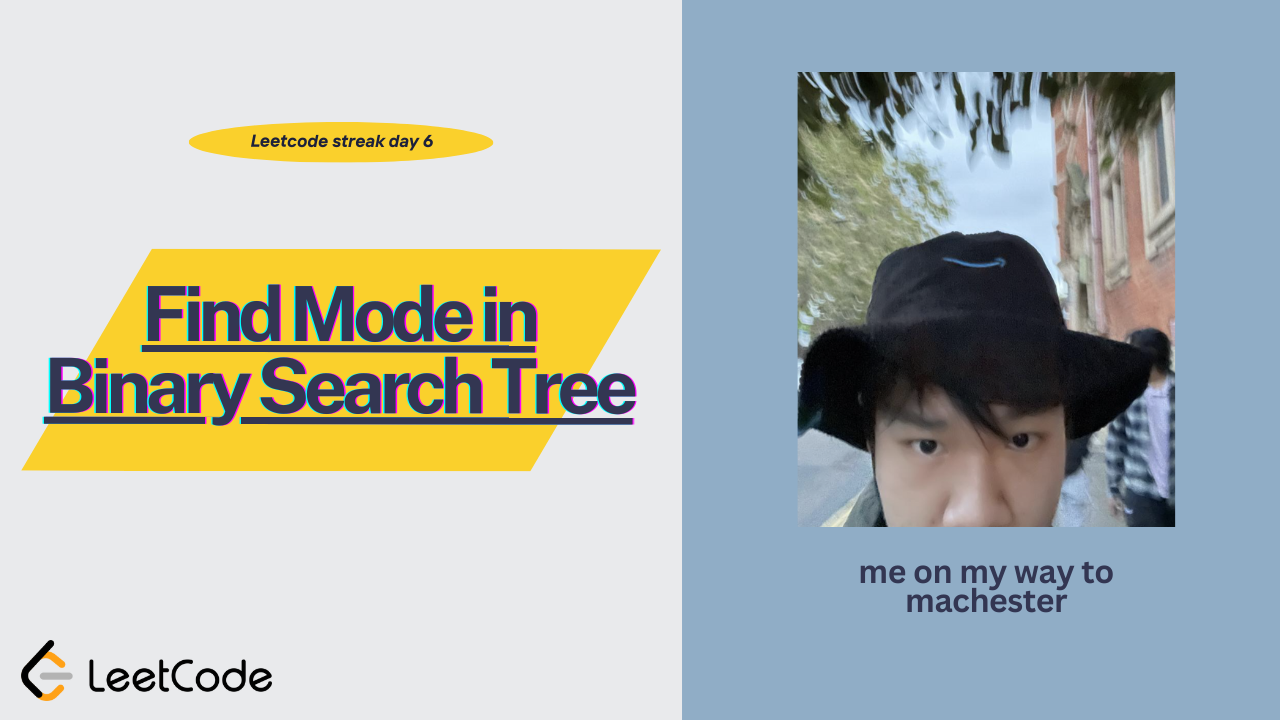
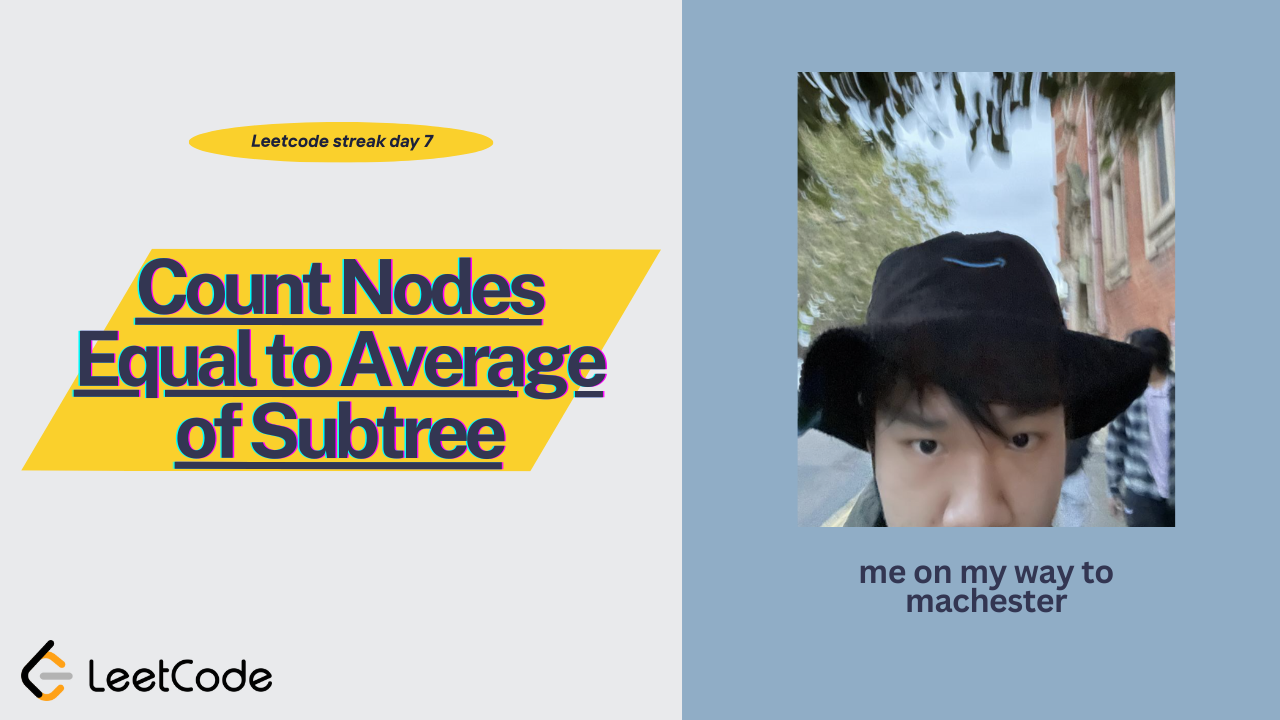
11/2

Changed region(s): [[0.0312, 0.3361, 0.5, 0.6722], [0.1875, 0.1833, 0.3438, 0.2139]]

diff --git a/november-2023/averageNodes.java b/november-2023/averageNodes.java
@@ -1,0 +1,39 @@
+public class averageNodes{
+  /**
+ * Definition for a binary tree node.
+ * public class TreeNode {
+ *     int val;
+ *     TreeNode left;
+ *     TreeNode right;
+ *     TreeNode() {}
+ *     TreeNode(int val) { this.val = val; }
+ *     TreeNode(int val, TreeNode left, TreeNode right) {
+ *         this.val = val;
+ *         this.left = left;
+ *         this.right = right;
+ *     }
+ * }
+ */
+    private int matchingSubtreeCount = 0; 
+
+    private int[] calculateSubtreeValues(TreeNode currentNode) {
+        if (currentNode == null)
+            return new int[]{0, 0}; 
+
+        int[] leftSubtree = calculateSubtreeValues(currentNode.left);
+        int[] rightSubtree = calculateSubtreeValues(currentNode.right);
+
+        int sumOfValues = leftSubtree[0] + rightSubtree[0] + currentNode.val;
+        int numberOfNodes = leftSubtree[1] + rightSubtree[1] + 1;
+
+        if (sumOfValues / numberOfNodes == currentNode.val)
+            matchingSubtreeCount++;
+
+        return new int[]{sumOfValues, numberOfNodes}; 
+    }
+
+    public int averageOfSubtree(TreeNode root) {
+        calculateSubtreeValues(root); 
+        return matchingSubtreeCount; 
+    }
+}

diff --git a/november-2023/recurringDecimal.java b/november-2023/recurringDecimal.java
@@ -1,0 +1,40 @@
+import java.util.*;
+public class recurringDecimal {
+    public String fractionToDecimal(int numerator, int denominator) {
+
+        StringBuilder ans = new StringBuilder();
+
+        if ((numerator < 0 && denominator > 0) || (numerator > 0 && denominator < 0))
+            ans.append("-");
+        
+        long num = Math.abs((long)numerator);
+        long den = Math.abs((long)denominator);
+
+        long quotient = num / den;
+
+        ans.append(quotient);
+        long rem = num % den;
+        if(rem == 0){
+            return ans.toString();
+        }
+
+        ans.append(".");
+        Map<Long, Integer> rems = new HashMap<>();
+        while(rem != 0){
+            if(rems.containsKey(rem)){
+                int pos = rems.get(rem);
+                ans.insert(pos,"(");
+                ans.append(")");
+                return ans.toString();
+            }else{
+                rems.put(rem,ans.length());
+                rem *= 10;
+                quotient = rem/ den;
+                rem %= den;
+                ans.append(String.valueOf(quotient));
+            }
+        }
+
+        return ans.toString();
+    }
+}
